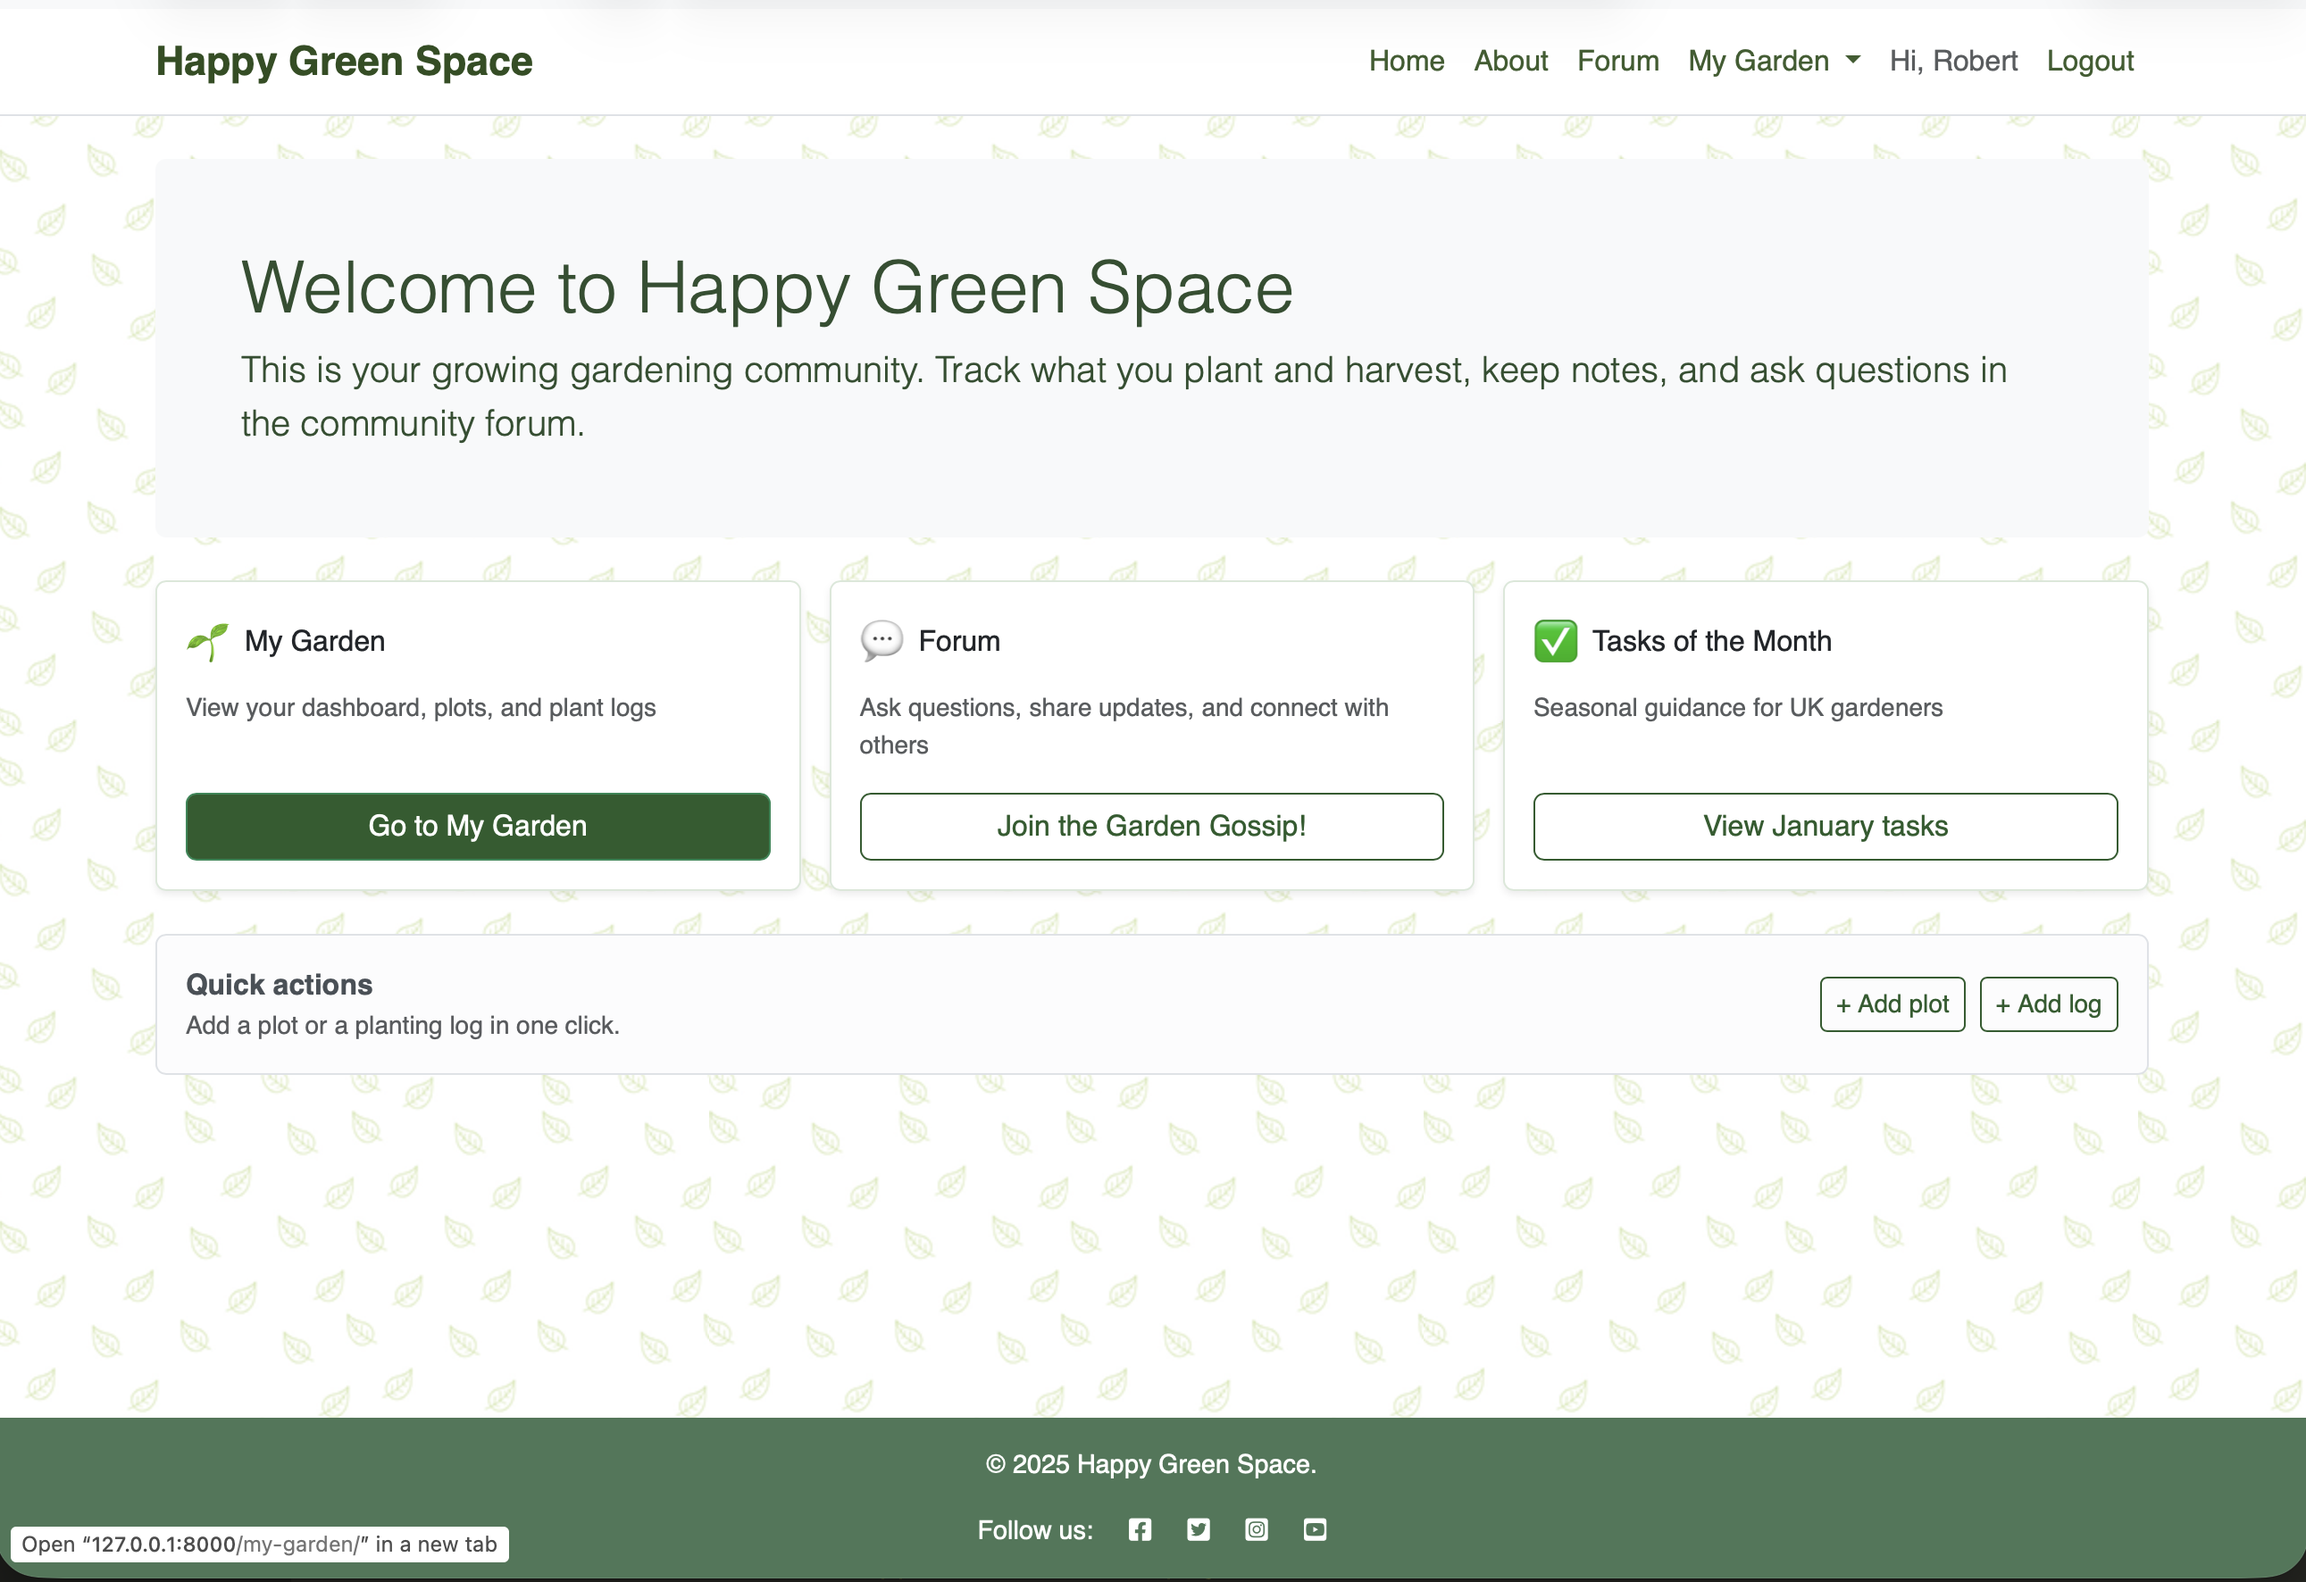
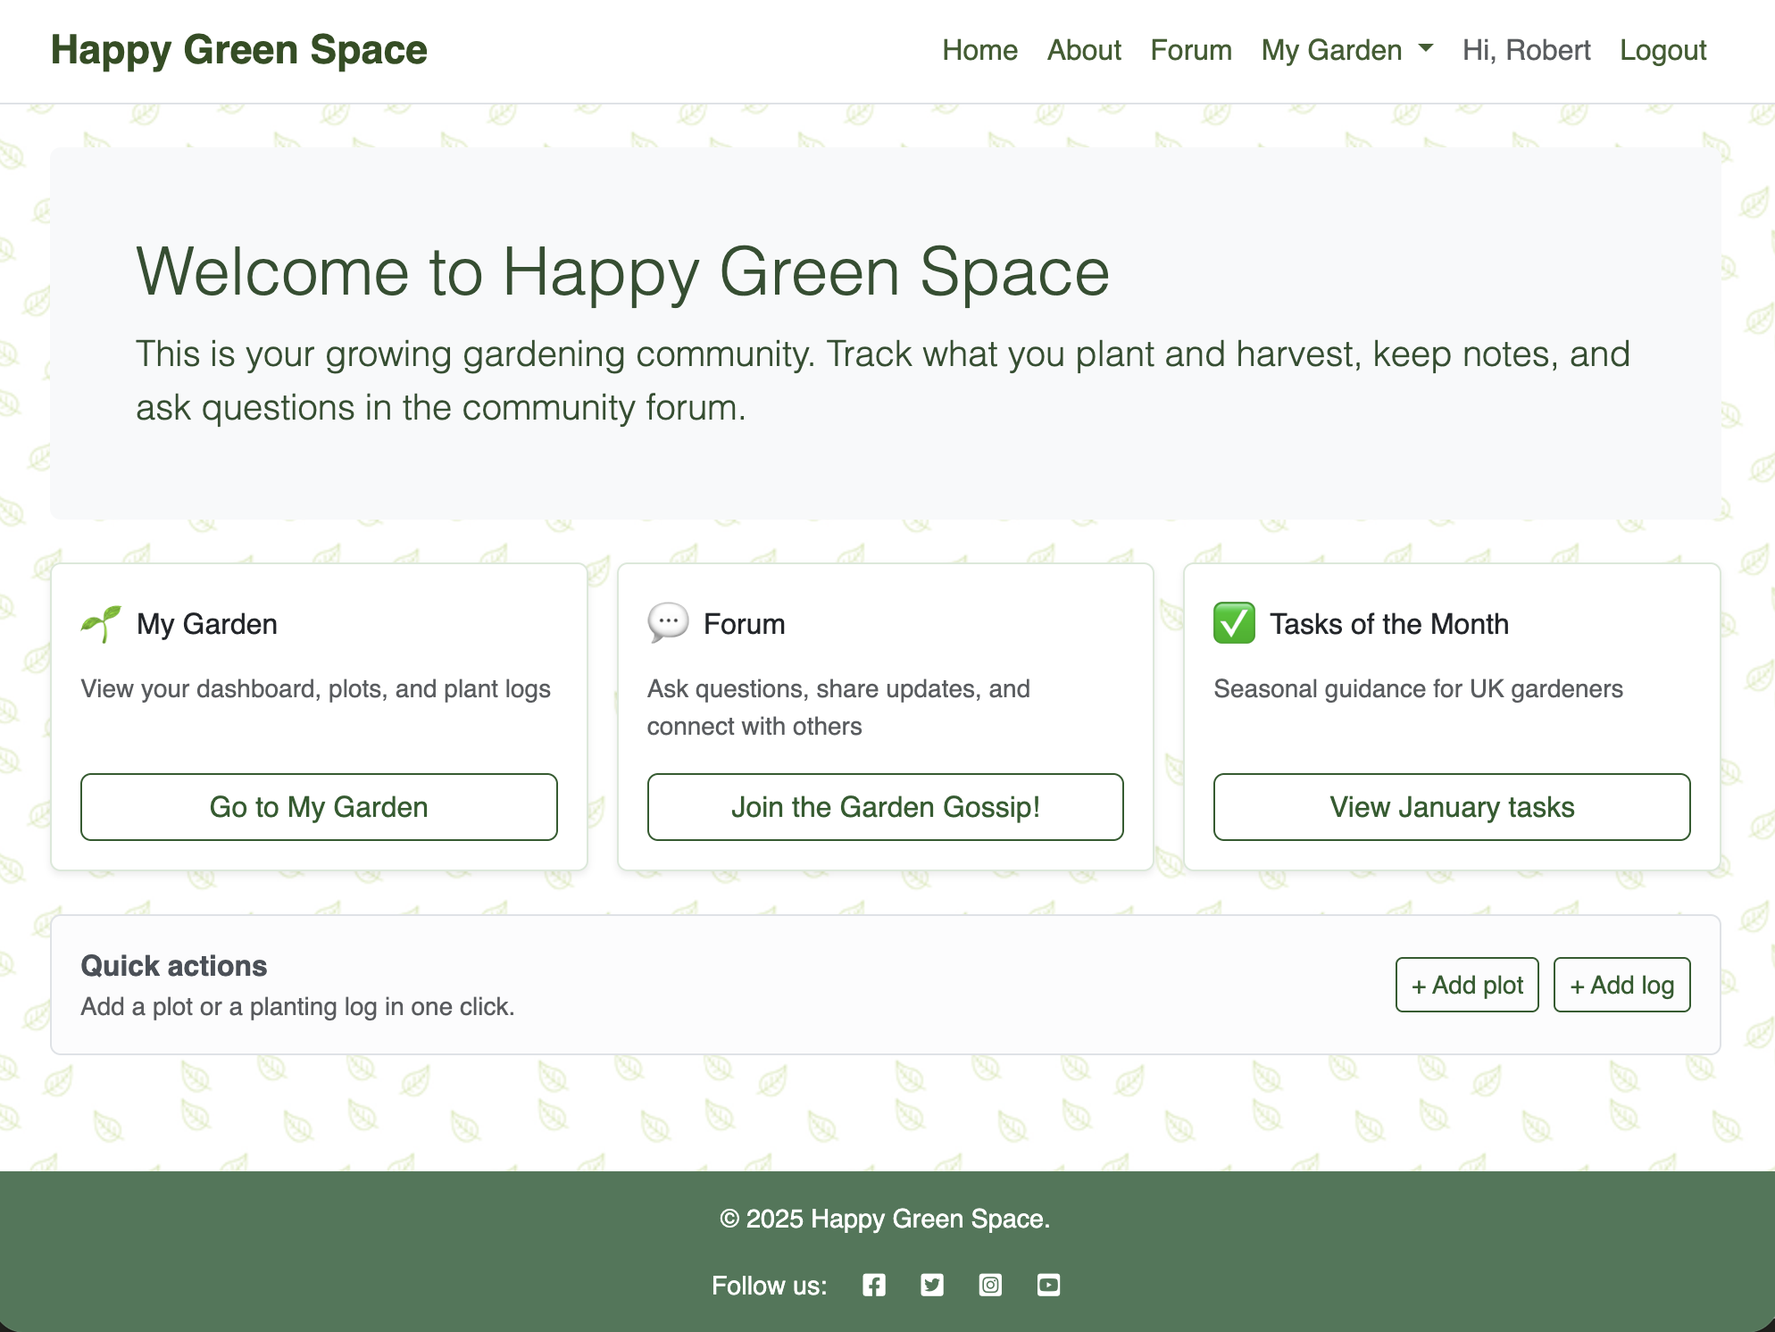
Add screenshots to readme

diff --git a/README.md b/README.md
@@ -20,6 +20,9 @@ Happy Green Space is a web-based platform that aims to bring together a set of f
 
 With all these functionalities, the platform target to function as a home page for allotment users.
 
+![Homepage](./assets/images/read_me/homepage_combined.png)
+
+
 ## App's Location
 
 - Happy Green Space Live Link:
@@ -200,7 +203,7 @@ The `my_garden` app allows users to create and list entries at the platform and 
 
 Templates are organised within individual Django apps to maintain a clear separation and transferability.
 The core `main` app provides the base layout and static pages, which are then extended by feature-specific apps.
-The project heavilty relies on class-based views. 
+The project heavily relies on class-based views. 
 
 ### Main
 
@@ -210,6 +213,8 @@ The static pages hosted in the main app include:
 - home : This is the home page for the platform. It provides brief information about the functionality of the platform and provides links to other pages and apps.  
 - about : Provides brief information about the Happy Green Space platform
 - tasks for the month: this page currently provides information about the nature in January and gardening tasks to undertake in this month. It is currently provided as a placeholder for further development. Links for each month will be added at later stages. This space can also later be converted into blog type model where users can contribute with blogs on monthly tasks or community activities.  
+
+![Homepage](./assets/images/read_me/homepage.png)
 
 ### Forum
 
@@ -221,6 +226,8 @@ The templates in the app include:
 
 - `Post Views`: post_list, post_detail, post_form, post_confirm_delete
 - `Reply Views`: reply_form, reply_confirm_delete
+
+![Forum Pages](./assets/images/read_me/forum_combined.png)
 
 ### My Garden
 
@@ -235,6 +242,14 @@ The templates in the app include:
 - `PlantLog Views`: plantlog_form, plantlog_list, plantlog_confirm_delete
 - `GardenPlotDetail View` (combines information from `GardenPlot` and `PlantLog` models): gardenplot_detail
 - `MyGardenDashboard View`: dashboard
+
+![Plant Catalogue](./assets/images/read_me/plant_catalogue_combined.png)
+
+![My Garden Dashboard](./assets/images/read_me/my_garden_dashboard.png)
+
+![Planter Detail and Plant Logs](./assets/images/read_me/planter_plant_combined.png)
+
+
 
 ## Data Model
 
@@ -524,13 +539,7 @@ Javascript tests can be applied by running `npm test` after a `npm install` from
 |Confirmation dialog before delete action |Confirmation of delete action requested from the logged in user|As a logged in user, attempted to delete an existing garden plot / plant log |Delete confirmation page loads for confirmation of action with a possibility to cancel| Pass|
 |JavaScript / HTML5 prevents submission of empty required fields|User cannot submit form unless all required fields are populated|Attempted to submit forms (add plant, add post, add reply) leaving a required field empty | Browser validation message warns user to fill the required field; form does not submit |Pass|
 
-![Logout Confirm](./assets/images/read_me/js_logout_confirm.png)
-
-![Delete Plant Confirm](./assets/images/read_me/delete_plant_confirm.png)
-
-![Delete Reply Confirm](./assets/images/read_me/delete_reply_confirm.png)
-
-![Empty Form Field Warning](./assets/images/read_me/empty_form_field_warning.png)
+![Test Screenshots](./assets/images/read_me/tests_combined.png)
 
 ## Deploying the App on Heroku
 
